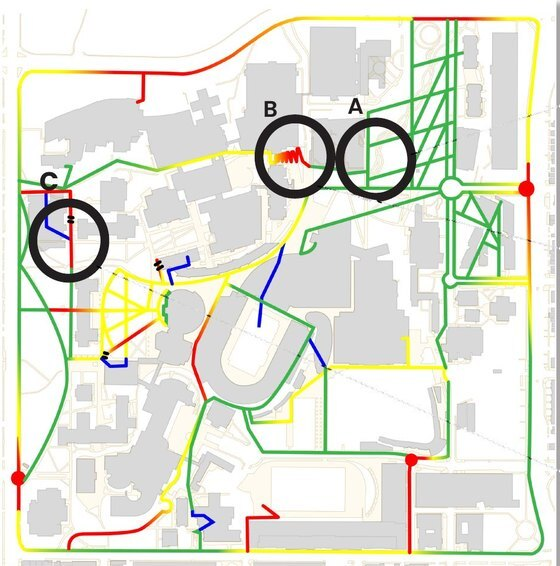
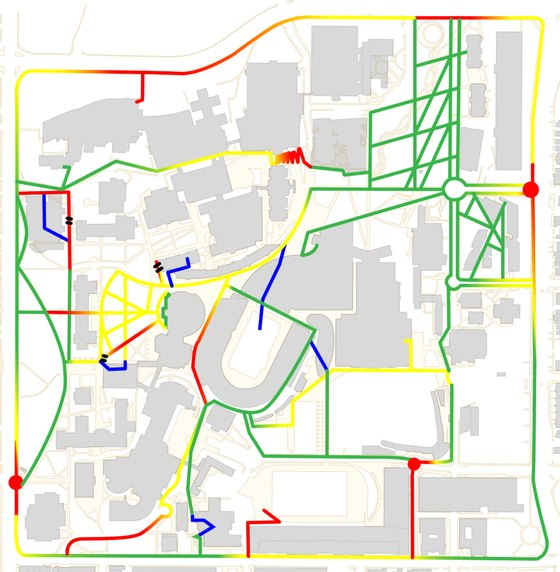
Use the clean pathway integration map
The wall map and the project cover now use the original map without
callouts, flattened onto white.

Claude-Session: https://claude.ai/code/session_01XMJYvrh6cjpm2GBhTmAdqT

diff --git a/assets/room.js b/assets/room.js
@@ -130,7 +130,7 @@
   // ── Framed pathway-integration map on the left wall (slot: map)
   // The actual map from the Inclusive vs. Compliant project, with its legend.
   {
-    const pad = 6, mapW = 116, mapH = Math.round(mapW * 566 / 560), legH = 20;
+    const pad = 6, mapW = 116, mapH = Math.round(mapW * 573 / 560), legH = 20;
     const w = mapW + pad * 2, h = mapH + pad * 2 + legH;
     const y1 = 1.5, y2 = y1 + w / S, z2 = 6.45, z1 = z2 - h / S;
     let inner = poly([P(0.02, y1 - 0.06, z1 - 0.06), P(0.02, y2 + 0.06, z1 - 0.06), P(0.02, y2 + 0.06, z2 + 0.06), P(0.02, y1 - 0.06, z2 + 0.06)], INK);

diff --git a/assets/data.js b/assets/data.js
@@ -107,7 +107,7 @@ window.PORTFOLIO = {
       tags: ["accessibility", "gis", "design"],
       stack: ["ArcGIS", "Illustrator", "SketchUp", "Hand sketching"],
       color: "#2bb673",
-      cover: "assets/img/inclusive-map.jpg",
+      cover: "assets/img/inclusive-map-clean.jpg",
       gallery: [
         { src: "assets/img/inclusive-map.jpg", caption: "Pathway integration map: green = strong, yellow = moderate, red = poor integration", group: "Integration map" },
         { src: "assets/img/inclusive-sketch-linder.jpg", caption: "Sketch: ramp to Lindner Hall (well integrated)", group: "Sketches" },
